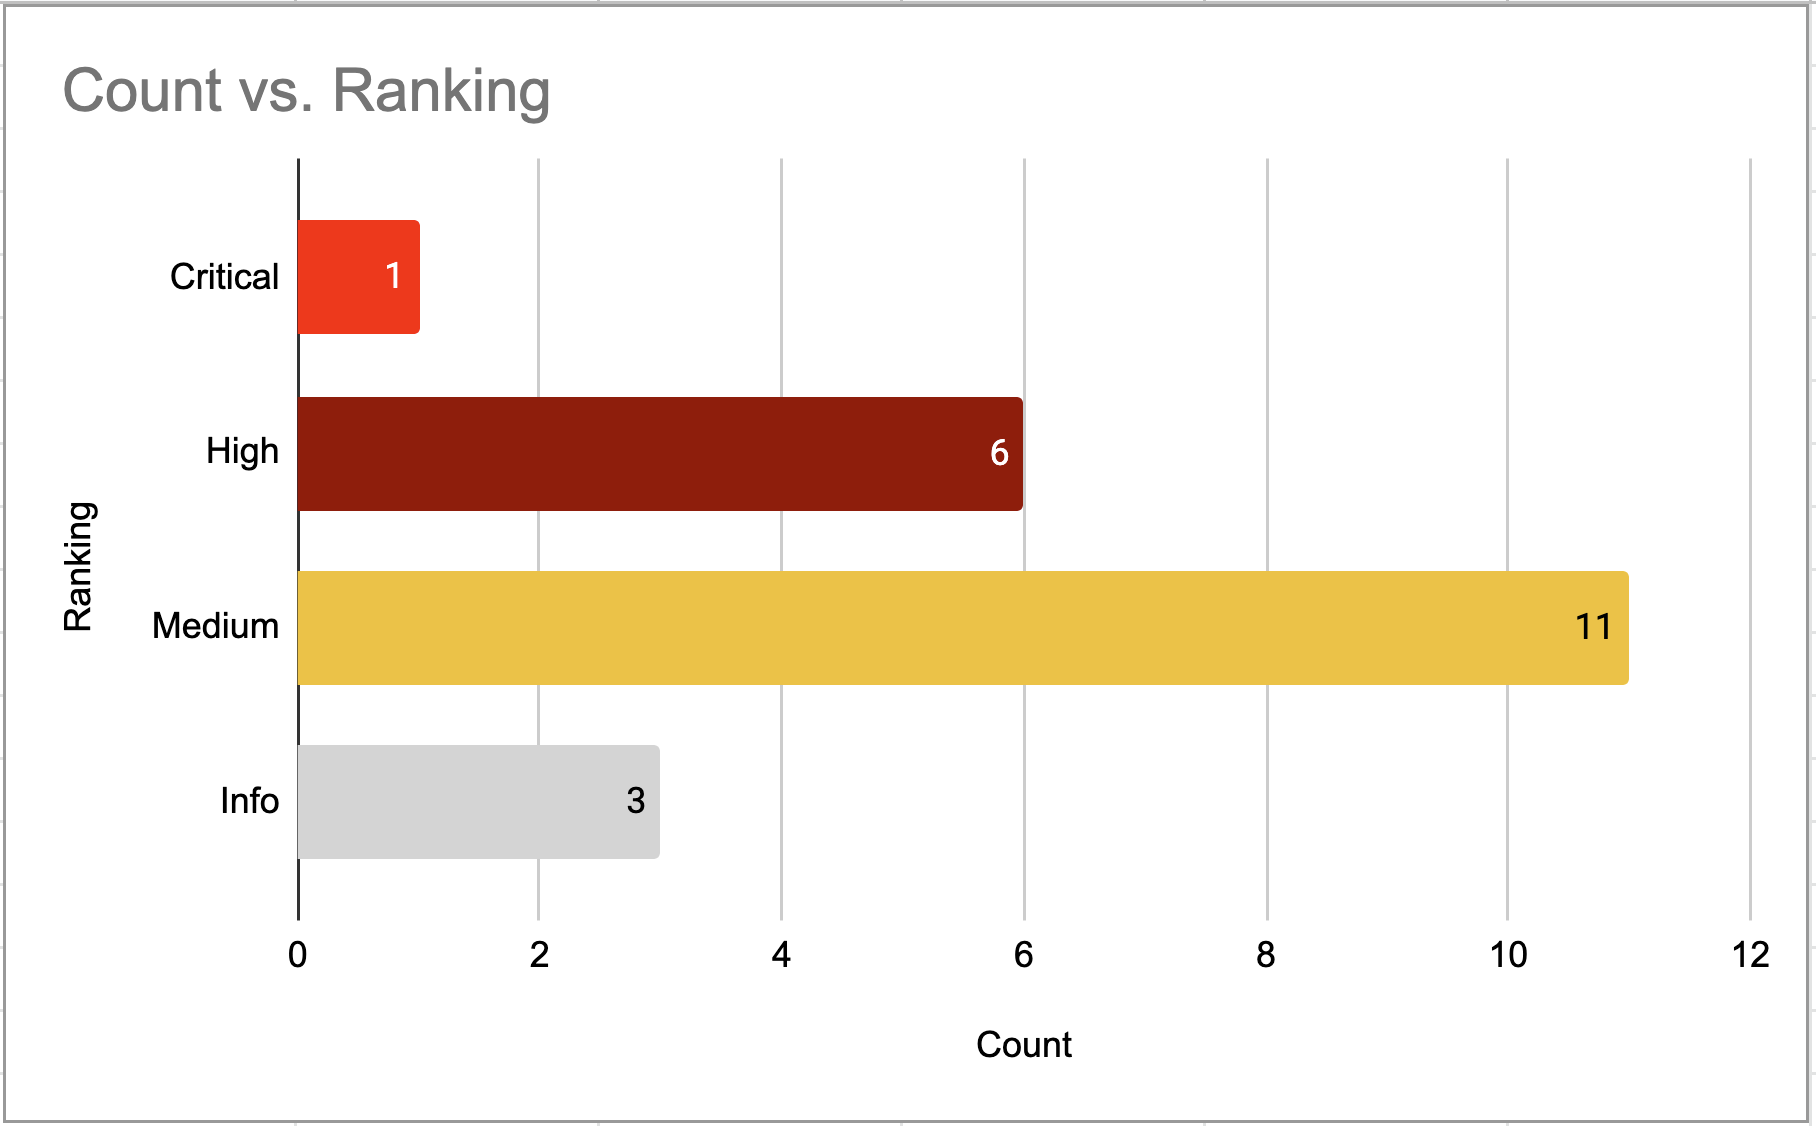
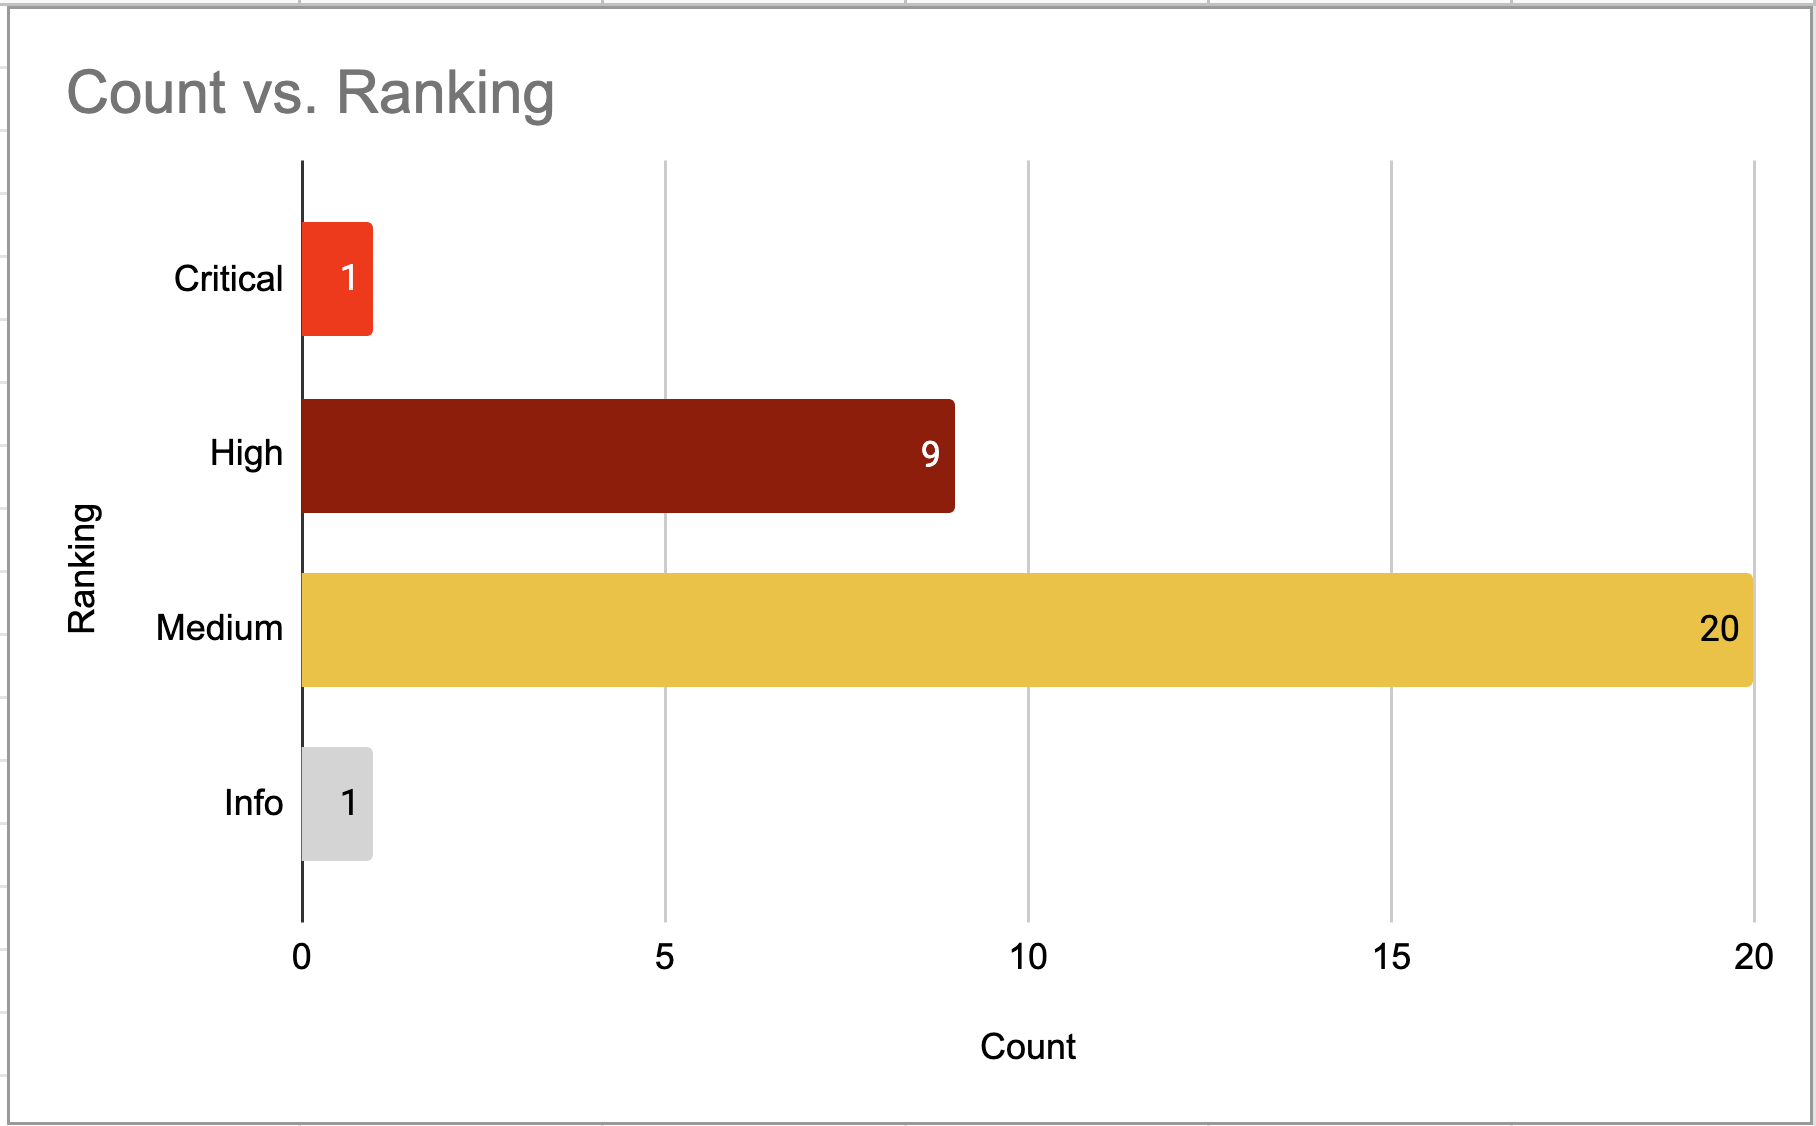
Fixed some stuff in vulnerabilities

diff --git a/findings.tex b/findings.tex
@@ -1,5 +1,5 @@
 \chapter{Findings}
-Testing discovered 21 vulnerabilities and CVEs in the system, and Table \ref{table:key_findings} summarizes the key findings.
+Testing discovered 31 vulnerabilities and CVEs in the system, and Table \ref{table:key_findings} summarizes the key findings.
 
 \begingroup
 \centering
@@ -14,14 +14,14 @@ Testing discovered 21 vulnerabilities and CVEs in the system, and Table \ref{tab
 \hline
 Critical  & 1\\
 \hline
-High  & 8\\
+High  & 9\\
 \hline
-Medium  & 4\
+Medium  & 20\
 \hline
-Info  & 2\\
+Info  & 1\\
 \hline
 \hline
-\textbf{Total}  & \textbf{15}\\
+\textbf{Total}  & \textbf{31}\\
 \hline
 \end{longtable}
 \endgroup
@@ -52,32 +52,32 @@ Info  & 2\\
 \rowcolor{grey!15}
 \textbf{Risk}  & \textbf{Finding}& \textbf{Count}& \textbf{Solution}\\
 \hline
-\cellcolor{red!95} Critical  & Externally exposed Network Resources 
-\newline (Configuration Management). & 1 &
+\cellcolor{red!95} Critical  & Externally exposed Network Resources, i.e., databases, FTP, DNS servers. Information theft and DoS attack are highly likely.
+\newline (Configuration Management). & 1 & Ports 21, 3306, and 5432 should be closed from the public internet as they are not necessary to be open for running the CMS. CDN should be used to relieve the load on the servers.
 \\
 \hline
-\cellcolor{red!95} Critical  & Brute force of user credentials are possible for databases as the ports are open and not protected. 
-\newline (Access Control) &1&
+\cellcolor{red!70} High  & Insecure database versions  containing multiple CVEs. This can lead to personal data theft.
+\newline (Patch Management).& 7 & The vulnerable versions of database must be updated to a secure one. In addition, regular security automatic scans with dynamic and static application testing should be carried out.
 \\
 \hline
-\cellcolor{red!70} High  & Insecure versions of database containing vulnerabilities.
-\newline (Patch Management).& 7 &
+\cellcolor{red!70} High  & Malicious Code injection possible(XSS, CSRF forgery) 
+\newline (System Integrity)& 2 & The HTML inputs should be sanitized, set Content-security policy header, and CSRF tokens \citep[p.~75]{xss_crsf}.
 \\
 \hline
-\cellcolor{red!70} High  & Malicious Code injection possible 
-\newline (System Integrity)& 2 &
-\\
-\hline
-\cellcolor{yellow!95} Medium  & Ip spoofing / DNS server spoofing possible
-\newline (System Integrity) .& 2 &
+\cellcolor{yellow!95} Medium  & Ip spoofing, DNS server spoofing and Cache Poisoning possible.
+\newline (System Integrity) .& 2 & Implement DNSSEC to protect the integrity of the server and turn off DNS recursion in the Bind server. \citep[p.~38]{guo2006spoof}
 \\
 \hline
 \cellcolor{yellow!95} Medium  & Server and application version is public 
-\newline(Configuration Management).& 2 &
+\newline(Configuration Management).& 2 & Do not make server and application versions public information.
+\\
+\hline
+\cellcolor{yellow!95} Medium  & DNS server is outdated, can cause an outage of the service because of present vulnerabilities.
+\newline (Patch management).& 16 & Update DNS bind to v9.18.12.
 \\
 \hline
 \cellcolor{grey!55} Info  & Application discloses system information
-\newline (Configuration Management).& 1 &
+\newline (Configuration Management).& 1 & Only generic errors should be outputted, and application information in error should be removed.
 \\
 \hline
 \end{longtable}

diff --git a/methodology.tex b/methodology.tex
@@ -46,13 +46,18 @@ Elevation of Privileges & \begin{enumerate}
 
 \begin{figure}[h!]
 \centering
-\includegraphics[width=\textwidth, height=400px]{pics/dfd.png}
+\includegraphics[width=\textwidth, height=450px]{pics/dfd.png}
 \caption{DFD level 0 for the CMS system}\label{fig:dfd}
 \end{figure}
 
 
 \section{Vulnerability Assessment}
-For the vulnerability assessment, the automated tools mentioned in the baseline analysis were used to scan for known threats and misconfigurations of the CMS system. Additionally, the assessment and reconnaissance are performed using the MITRE Enterprise ATT\&CK matrix \citep{mitre_url}, as this model describes the adversary behaviors that measure the system's resilience at an enterprise level \citep[p.~158]{xiong2022cyber}.
+For the vulnerability assessment, the automated tools (see table \ref{table:tools}) mentioned in the baseline analysis were used to scan for known threats and misconfigurations of the CMS system using the adversary behaviors defined in MITRE Enterprise ATT\&CK matrix \citep[p.~158]{xiong2022cyber}.
+
+\begin{comment}
+Additionally, the assessment and reconnaissance are performed using the MITRE Enterprise ATT\&CK matrix \citep{mitre_url}, as this model describes the adversary behaviors that measure the system's resilience at an enterprise level \citep[p.~158]{xiong2022cyber}.
+\end{comment}
+
 
 \newpage
 \begingroup
@@ -61,7 +66,7 @@ For the vulnerability assessment, the automated tools mentioned in the baseline 
 \renewcommand{\arraystretch}{1.8} % Default value: 1
 \begin{longtable}{ |p{5cm}| p{10cm} |}
 \caption{Results from the tools used in the assessment}
-    \label{table:spoofing}
+    \label{table:tools}
 \hline
 \rowcolor{grey!15}
 \textbf{Tool}  & \textbf{Result}\\
@@ -77,9 +82,9 @@ Metasploit \& Nmap &  \begin{enumerate}
 \end{enumerate}\\
 \hline
 DNSrecon &  \begin{enumerate}
-    \item Performed reverse lookup.
+    \item Performed reverse lookup and CDN detection.
     \item Performed DNS Zone transfer.
-    \item Performed Cache Snooping.
+    \item Performed Cache Snooping and DNS Recursion.
     \item Performed Zone walking.
 \end{enumerate}\\
 \hline

diff --git a/riskScore.tex b/riskScore.tex
@@ -1,9 +1,9 @@
 \chapter{Risk Rating System}
-
+\begin{comment}
 The Common Vulnerability Scoring System v3.0 (CVSS) is taken as a baseline for the assessment to characterize and measure some of the vulnerability's potential impact on the CMS system \citep[p.~516]{cvss}. 
 The rating is not solely based on these metrics due to the limiting factor that CVSS does not entirely reflect the actual risk in the organization \citep[p.~7]{limitations_cvss}. However, since CVSS has been adopted widely and used by many enterprises, i.e., National Vulnerability Database \citep{nist}, it is chosen to be included in the analysis. The rankings are further determined based on CVSS, the probability of an attack, and the impact on the system.
 The rankings for vulnerabilities are assigned based on the score, which is as follows:
-
+\end{comment}
 
 \begingroup
 \centering

diff --git a/main.tex b/main.tex
@@ -15,7 +15,6 @@
 % breaks line at hyphens (resolves formatting issues in bibliography)
 \usepackage[hyphens]{url}
 
-
 % if you insist on Arial... then uncomment the following
 \usepackage{helvet}
 \renewcommand{\familydefault}{\sfdefault}
@@ -54,6 +53,7 @@
 
 
 \usepackage[hidelinks]{hyperref} %https://tex.stackexchange.com/questions/823/remove-ugly-borders-around-clickable-cross-references-and-hyperlinks
+
 
 %for chapter spaces
 \begin{document}
